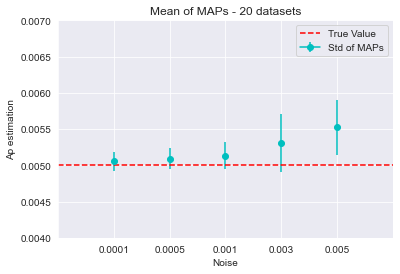
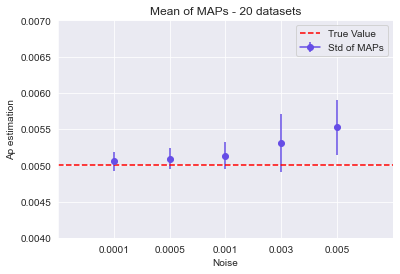
nye plots

diff --git a/emil_tests/w0deltadist.py b/emil_tests/w0deltadist.py
@@ -7,6 +7,7 @@ Created on Thu Nov 12 22:32:49 2020
 """
 import numpy as np              
 import matplotlib.pyplot as plt 
+from tqdm import tqdm
 from scipy.stats import gamma
 from scipy.stats import norm
 from numba import njit
@@ -121,7 +122,7 @@ def infer_b2_w0(s1,s2,tol):
         i += 1
     return beta
 
-def particle_filter(w0,b2,Ap,s1,s2,std,P,binsize,seconds,tau):
+def particle_filter(w0,b2,theta,s1,s2,std,P,binsize,seconds,tau):
     '''
     Particle filtering, (doesnt quite work yet, smth with weights vp)
     Possible to speed it up? 
@@ -129,10 +130,8 @@ def particle_filter(w0,b2,Ap,s1,s2,std,P,binsize,seconds,tau):
     '''
     timesteps = np.int(seconds/binsize)
     t = np.zeros(timesteps)
-    wp = np.full(P,np.float(w0))
+    wp = np.full((P,timesteps),np.float(w0))
     vp = np.ones(P)
-    #wp = np.random.normal(w0,w0/100,size = P)
-    #vp = norm.pdf(wp,loc = w0, scale = w0/100)
     log_posterior = 0
     for i in range(1,timesteps):
         v_normalized = normalize(vp)
@@ -141,10 +140,10 @@ def particle_filter(w0,b2,Ap,s1,s2,std,P,binsize,seconds,tau):
             wp = resampling(v_normalized,wp,P)
             vp = np.full(P,1/P)
             v_normalized = normalize(vp)
-        lr = learning_rule(s1,s2,Ap,Ap*1.05,tau,tau,t,i,binsize)
-        ls = likelihood_step(s1[i-1],s2[i],wp[:],b2)  
+        lr = learning_rule(s1,s2,theta,theta*1.05,tau,tau,t,i,binsize)
+        ls = likelihood_step(s1[i-1],s2[i],wp[:,i-1],b2)  
         vp = ls*v_normalized
-        wp = wp + lr + np.random.normal(0,std,size = P)
+        wp[:,i] = wp[:,i-1] + lr + np.random.normal(0,std,size = P)
         log_posterior += np.log(np.sum(vp)/P)
         t[i] = i*binsize
     v_normalized = normalize(vp)
@@ -183,7 +182,7 @@ def MHsampler2(w0,b2est,shapes_prior,rates_prior,s1,s2,std,P,binsize,seconds,U,i
 '''
 PARAMETERS AND RUNNING OF ALGORITHM :
 '''        
-std = 0.0001
+std = 0.001
 w0 = 1.0
 b1 = -2
 b2 = -2
@@ -192,7 +191,7 @@ Am = Ap*1.05
 tau = 20.0e-3
 seconds = 120.0
 binsize = 1/200.0
-P = 1000
+P = 20
 U = 100
 it = 1500
 shapes_prior = 5
@@ -201,28 +200,44 @@ rates_prior = 100
 
 #Tau1 = MHsampler2(w0est, b2est, shapes_prior, rates_prior, s1, s2, std, P, binsize, seconds, U, it, Ap)
 
+#s12,s22,t2,W2 = generative(Ap, Am, tau, tau, b1, b2, w0, std, seconds, binsize)
+#b1est2 = infer_b1(s12)
+#b2est2 = infer_b2_w0(s12, s22, 1e-10)[0]
+#w0est2 = infer_b2_w0(s12[:2000], s22[:2000], 1e-10)[1]
+#wp,vnorm = particle_filter(1, b2est2, 0.005, s12, s22, std, P, binsize, seconds, 0.02)
+'''
+plt.figure()
+plt.title('Weighted particle trajectories ')
+for i in range(P):
+    if i == P-1:
+        plt.plot(t2,W2,'k',label='True trajectory')
+    plt.plot(t2[:],wp[i,:],alpha=vnorm[i]/max(vnorm))
+plt.xlabel('Time (seconds)')
+plt.ylabel('w')
+plt.legend()
+plt.show()
+'''  
 
-taus2 = [0.005,0.01,0.015,0.017,0.019,0.02,0.021,0.023,0.025,0.03,0.035,0.04,0.045,0.05,0.06,0.07,0.08]
-Aps = [0.001,0.002,0.0025,0.003,0.004,0.0045,0.0048,0.0049,0.005,0.0051,0.0052,0.0055,0.006,0.0065,0.007,0.0075,0.008]
-loglikesTau = []
-wests = []
-loglikesAp = []
-for i in range(200):
+
+noises = [0.00001,0.00004,0.00007,0.0001,0.0002,0.0003,0.0004,0.0005,0.0007,0.001,0.0015,0.002,0.0025,0.003,0.004,0.005,0.006,0.007]
+#Aps = [0.001,0.002,0.0025,0.003,0.004,0.0045,0.0048,0.0049,0.005,0.0051,0.0052,0.0055,0.006,0.0065,0.007,0.0075,0.008]
+loglikesNoise = []
+#wests = []
+#loglikesAp = []
+for i in tqdm(range(100)):
     s12,s22,t2,W2 = generative(Ap, Am, tau, tau, b1, b2, w0, std, seconds, binsize)
     b1est2 = infer_b1(s12)
     b2est2 = infer_b2_w0(s12, s22, 1e-10)[0]
     w0est2 = infer_b2_w0(s12[:2000], s22[:2000], 1e-10)[1]
-    wests.append(w0est2)
-    particlelogliks2 = []
+    #wests.append(w0est2)
+    #particlelogliks2 = []
     particlelogliks = []
-    for j in range(len(taus2)):
-        particlelogliks2.append(particle_filter(w0est2,b2est2,Ap,s12,s22,std,P,binsize,seconds,taus2[j]))
-    for k in range(len(Aps)):
-        particlelogliks.append(particle_filter(w0est2,b2est2,Aps[k],s12,s22,std,P,binsize,seconds,tau))
-    loglikesTau.append(particlelogliks2)
-    loglikesAp.append(particlelogliks)
+    for j in range(len(noises)):
+        particlelogliks.append(particle_filter(w0est2,b2est2,Ap,s12,s22,noises[j],P,binsize,seconds,tau))
+    #for k in range(len(Aps)):
+    #    particlelogliks.append(particle_filter(w0est2,b2est2,Aps[k],s12,s22,std,P,binsize,seconds,tau))
+    #loglikesTau.append(particlelogliks2)
+    loglikesNoise.append(particlelogliks)
 
 
-np.save('w0estimates_1prosent_deltainit',wests)
-np.save('Loglikes_Tau_1pr_deltainit',loglikesTau)
-np.save('loglikes_Ap_1pr_deltainit',loglikesAp)
+np.save('NoiseLoglikes',loglikesNoise)

diff --git a/20DatasetApAnalyse/plot20datasets.py b/20DatasetApAnalyse/plot20datasets.py
@@ -10,21 +10,21 @@ import matplotlib.pyplot as plt
 import seaborn as sns
 from scipy.stats import rv_histogram as hist
 
-Datasets1 = np.load('ApInferenceData1to4Opposite.npy')
-Datasets2 = np.load('ApInferenceData5to8Opposite.npy')
-Datasets3 = np.load('ApInferenceData9to12Opposite.npy')
-Datasets4 = np.load('ApInferenceData13to16Opposite.npy')
-Datasets5 = np.load('ApInferenceData17to20Opposite.npy')
+Datasets1 = np.load('ApInferenceData1to4.npy')
+Datasets2 = np.load('ApInferenceData5to8.npy')
+Datasets3 = np.load('ApInferenceData9to12.npy')
+Datasets4 = np.load('ApInferenceData13to16.npy')
+Datasets5 = np.load('ApInferenceData17to20.npy')
 
 Datasets = [Datasets1,Datasets2,Datasets3,Datasets4,Datasets5]
 
 
 
-maps1 = np.load("Maps0.0001Opposite.npy")
-maps2 = np.load("Maps0.0005Opposite.npy")
-maps3 = np.load("Maps0.001Opposite.npy")
-maps4 = np.load("Maps0.003Opposite.npy")
-maps5 = np.load("Maps0.005Opposite.npy")
+maps1 = np.load("Maps0.0001.npy")
+maps2 = np.load("Maps0.0005.npy")
+maps3 = np.load("Maps0.001.npy")
+maps4 = np.load("Maps0.003.npy")
+maps5 = np.load("Maps0.005.npy")
 ### CALCULATED WITH R
 maps = [maps1,maps2,maps3,maps4,maps5]
 
@@ -71,10 +71,10 @@ plt.xlim([0,6])
 plt.xticks(x,labels = ticksss)
 for i in range(5):
     if i == 1:
-        plt.errorbar(x[i], means[i], yerr = meansvar[i],c='c',marker = 'o',label='Std of means',ecolor='c')
+        plt.errorbar(x[i], means[i], yerr = meansvar[i],c=[0.4,0.3,0.9],marker = 'o',label='Std of means',ecolor=[0.4,0.3,0.9])
         #plt.errorbar(x[i], means[i], yerr = varrs[i],marker = 'o',label='Std of samples',barsabove=(True))
     else:
-        plt.errorbar(x[i], means[i], yerr = meansvar[i],c='c',marker = 'o',ecolor='c')#,label='Std of means')
+        plt.errorbar(x[i], means[i], yerr = meansvar[i],c=[0.4,0.3,0.9],marker = 'o',ecolor=[0.4,0.3,0.9])#,label='Std of means')
         #plt.errorbar(x[i], means[i], yerr = varrs[i],marker = 'o')#,label='Std of samples')
 plt.axhline(0.005,color='r',linestyle='--',label='True Value')
 plt.legend()
@@ -89,9 +89,9 @@ plt.xlim([0,6])
 plt.xticks(x,labels = ticksss)
 for i in range(5):
     if i == 1:
-        plt.errorbar(x[i], maps[i], yerr = mapsvar[i],c='c',marker = 'o',label='Std of MAPs',ecolor='c')
+        plt.errorbar(x[i], maps[i], yerr = mapsvar[i],c=[0.4,0.3,0.9],marker = 'o',label='Std of MAPs',ecolor=[0.4,0.3,0.9])
     else:
-        plt.errorbar(x[i], maps[i], yerr = mapsvar[i],c='c',marker = 'o',ecolor='c')
+        plt.errorbar(x[i], maps[i], yerr = mapsvar[i],c=[0.4,0.3,0.9],marker = 'o',ecolor=[0.4,0.3,0.9])
 plt.axhline(0.005,color='r',linestyle='--',label='True Value')
 plt.legend()
 plt.show()
@@ -105,9 +105,9 @@ plt.xlim([0,6])
 plt.xticks(x,labels = ticksss)
 for i in range(5):
     if i == 1:
-        plt.errorbar(x[i], medians[i], yerr = mediansvar[i],c='c',marker = 'o',label='Std of medians',ecolor='c')
+        plt.errorbar(x[i], medians[i], yerr = mediansvar[i],c=[0.4,0.3,0.9],marker = 'o',label='Std of medians',ecolor=[0.4,0.3,0.9])
     else:
-        plt.errorbar(x[i], medians[i],c='c', yerr = mediansvar[i],marker = 'o',ecolor='c')
+        plt.errorbar(x[i], medians[i],c=[0.4,0.3,0.9], yerr = mediansvar[i],marker = 'o',ecolor=[0.4,0.3,0.9])
 plt.axhline(0.005,color='r',linestyle='--',label='True Value')
 plt.legend()
 plt.show()

diff --git a/noiseSens/PlotNoiseSens.py b/noiseSens/PlotNoiseSens.py
@@ -68,9 +68,11 @@ plt.title('Posterior distribution Ap - 0.005 noise')
 plt.show()
 '''
 
-'''
-Tau analysis
 
+#Tau analysis
+
+x = [1,2,3,4,5,6,7]
+ticksss = ['0.0001','0.0005','0.001','0.002','0.003','0.004','0.005']
 
 Tau1 = np.load('Tau0.0001noise.npy')
 Tau2 = np.load('Tau0.0005noise.npy')
@@ -96,25 +98,24 @@ Taumean7 = np.mean(Tau7[300:])
 Tauvar7 = np.var(Tau7[300:])
 
 Taumeans = [Taumean1,Taumean2,Taumean3,Taumean4,Taumean5,Taumean6,Taumean7]
+Taumaps = np.load('MapsTau5ms.npy')
 Taustds = [np.sqrt(Tauvar1),np.sqrt(Tauvar2),np.sqrt(Tauvar3),np.sqrt(Tauvar4),np.sqrt(Tauvar5),np.sqrt(Tauvar6),np.sqrt(Tauvar7)]
-'''
-'''
+
 plt.figure()
-plt.title('Sensitivity of noise')
+plt.title(r'Sensitivity of noise ')
 plt.xlabel('Noise')
 plt.ylabel('Tau estimation')
 plt.ylim([-0.06,0.1])
 plt.xlim([0,8])
 plt.xticks(x,labels = ticksss)
 for i in range(7):
-    plt.errorbar(x[i], Taumeans[i], yerr = Taustds[i],marker = 'o')
+    plt.errorbar(x[i], Taumaps[i], yerr = Taustds[i],marker = 'o')
 plt.axhline(0.02,color='r',linestyle='--',label='True Value')
 plt.legend()
 plt.show()
-'''
-'''
+
 plt.figure()
-sns.displot(Tau1[300:], kde=True)
+sns.displot(Tau1[300:], kde=True,bins=100)
 plt.axvline(0.02,color='r',linestyle='--',label='True Value')
 plt.legend()
 plt.title('Posterior distribution Tau - 0.0001 noise')
@@ -129,11 +130,11 @@ plt.plot(np.linspace(1,1500,1500),Tau1,'ko')
 plt.axhline(0.02,color='r',linestyle='--',label='True Value')
 plt.legend()
 plt.show()
-'''
+
 '''
 Simultaneous
 '''
-
+'''
 Sim1 = np.load('Sim0.0001noise.npy')
 Sim2 = np.load('Sim0.0005noise.npy')
 Sim3 = np.load('Sim0.001noise.npy')
@@ -192,7 +193,7 @@ plt.title('Posterior distribution $A_+$ - $\sigma = 0.0002$')
 plt.legend()
 plt.show()
 
-'''
+
 plt.figure()
 plt.title('Sensitivity of noise - Tau')
 plt.xlabel('Noise')
